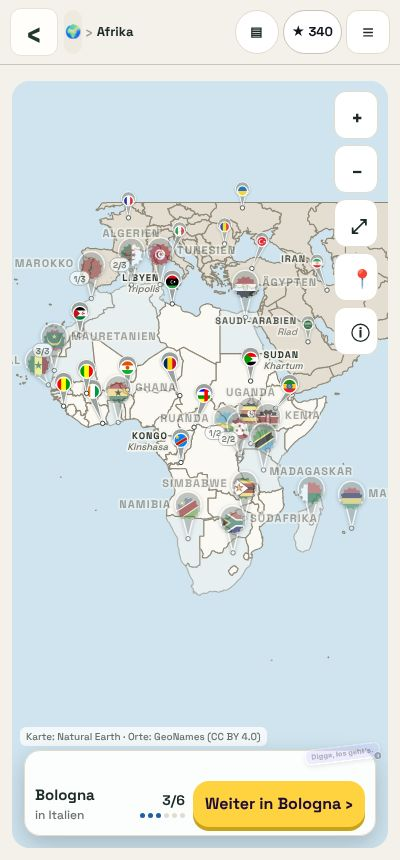
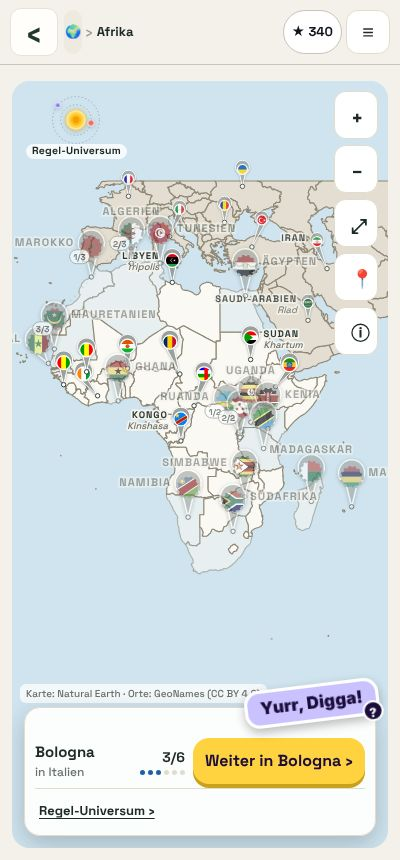
Reisekarte: Regel-Universum schwebt in der Karte (kleine Sonne mit zwei Bahnen), Textlink daneben, Link auch im Tafel-Rückfall
- Fest am Kartenrahmen (zoomt/schiebt nicht mit), auf Welt, Kontinent und Land; die Ecke (oben links, unten rechts,
  unten links, unter den Zoom-Knöpfen) wird je Ebene so gewählt, dass weder Pins/Schilder/Haltestellen der Route noch
  Zoom-Knöpfe, Quellenzeile, Legende oder „Gerade dran“ verdeckt werden. Trefferfläche ≥ 44 px, aria „Zum Regel-Universum“.
- Planeten kreisen sehr langsam; prefers-reduced-motion schaltet das ab. Hell und dunkel.
- Textlink „Regel-Universum ›“: Rechner rechte Spalte unter „Mein Schuljahr“, Handy in der Startkarte neben „Mein Schuljahr“,
  Tafel-Rückfall unter „Mein Schuljahr“.
- Test: drei Ebenen bei 400 × 860 und 1280 × 800 ohne Überdeckung, fest beim Verschieben, Ziel #/regeln/1, reduzierte Bewegung.

Claude-Session: https://claude.ai/code/session_01RWRKSArQNYwC5Aun9rPxAd

diff --git a/lernen.js b/lernen.js
@@ -1841,6 +1841,7 @@ function lernAbflugtafel(d, { n, et, nWdh, wdhRest = 0, wdhFertig = false, ort =
     band, // KJ 2 S2: Fortschrittslinie gehört zu „Gerade dran“ – vor der Zusatz-Karte
     lernZpKarte(d), // KJ §0.4: Zusatz · eingeplant unter „Gerade dran“
     lernSjKarte(d), // KJ §0.5: Mein Schuljahr
+    el('a', { class: 'lr-textlink lr-ru-link', href: `#/regeln/${kind.id}` }, 'Regel-Universum ›'), // auch im Rückfall ohne Karte erreichbar
     // KJ 2 M2: keine Mini-Linien GYM · RS · IB mehr auf der Abflugtafel (widersprachen „Mein Schuljahr“); sie bleiben unter „Meine Route 5–10“ bzw. im Linienplan
     el('div', { class: 'lr-tafelchips' }, el('a', { href: `#/reisepass/${kind.id}` }, `◎ ${d.konto?.stempel ?? 0} Stempel`), el('span', {}, 'Abflug, wann es dir passt')),
     lernKnobelDesTages(d),
@@ -2131,9 +2132,20 @@ function lernReisekarte(d, karte, start) {
   const legende = el('div', { class: 'rk-legende', hidden: true, role: 'note' }, el('b', {}, 'Was die Zeichen bedeuten'),
     ...[['✈', 'gerade dran', 'dran'], ['2', 'Platz im Plan', 'plan'], ['✓', 'geschafft', 'gesch'], ['★', 'golden', 'gold'], ['↻', 'wieder offen – nachbessern', 'wieder'], ['🔒', 'wartet', 'wartet'], ['+', 'Zusatz', 'zusatz']]
       .map(([z0, w, c]) => el('span', { class: 'rk-leg-zeile' }, el('i', { class: 'rk-leg-z rk-leg-' + c, 'aria-hidden': 'true' }, z0), ' ' + w)));
+  // Regel-Universum schwebt in der Karte (Wunsch des Nutzers): kleine Sonne mit zwei Bahnen, fest am Kartenrahmen (zoomt/schiebt nicht mit),
+  // auf allen Ebenen; die Ecke wird je Ebene so gewählt, dass weder Pins/Haltestellen der Route noch Bedienelemente verdeckt werden.
+  const ruZiel = `#/regeln/${kind.id}`;
+  const universum = el('a', { class: 'rk-universum' + (lernWenigBewegung() ? ' still' : ''), href: ruZiel, 'aria-label': 'Zum Regel-Universum', title: 'Regel-Universum' });
+  { const n0 = 'http://www.w3.org/2000/svg'; const q = (tag, a = {}, ...k) => { const e = document.createElementNS(n0, tag); for (const [x, v] of Object.entries(a)) e.setAttribute(x, v); e.append(...k); return e; };
+    universum.append(q('svg', { viewBox: '-30 -30 60 60', width: 54, height: 54, 'aria-hidden': 'true', class: 'rk-uni-bild' },
+      q('circle', { r: 17, class: 'rk-uni-bahn' }), q('circle', { r: 26, class: 'rk-uni-bahn' }),
+      q('circle', { r: 13.5, class: 'rk-uni-schein' }), q('circle', { r: 11, fill: '#FFE68C' }), q('circle', { r: 8.5, fill: '#FFD23F' }), q('circle', { r: 6, fill: '#FFB81F' }), q('circle', { r: 3.5, fill: '#F59E00' }),
+      q('g', { class: 'rk-uni-b1' }, q('circle', { cx: 17, cy: 0, r: 3.4, class: 'rk-uni-p1' })),
+      q('g', { class: 'rk-uni-b2' }, q('circle', { cx: -18.4, cy: -18.4, r: 2.8, class: 'rk-uni-p2' }))),
+    el('span', { class: 'rk-uni-wort' }, 'Regel-Universum')); }
   const zuMir = () => { const f = nbFlug || dranFlug; if (!f) return; z.kont = f.kontinent_id; geheLand(lernRkSchl(f)); }; // NB: „Zu mir“ springt zur offenen Stadt
   const quelle = el('p', { class: 'rk-quelle' }, 'Karte: Natural Earth · Orte: GeoNames (CC BY 4.0)' + (z.ebene === 'welt' ? ' · Stationen: COMNAP' : ''));
-  const kartenTeil = el('div', { class: 'rk-karte' }, rahmen, zoomKnoepfe, legende, quelle);
+  const kartenTeil = el('div', { class: 'rk-karte' }, rahmen, universum, zoomKnoepfe, legende, quelle);
   // S1/S2: eine Kopfzeile im App-Kopf (wie LW-3b): ‹ · Meine Reise · Pfad · ★ · ≡ – die Karte füllt den Rest des Fensters
   const menue = () => { const dlg = wurzel.closest('.lr-mit-menue')?.querySelector('dialog.lr-blatt'); if (dlg && !dlg.open) dlg.showModal(); };
   const schmal = () => innerWidth <= 760;
@@ -2187,7 +2199,7 @@ function lernReisekarte(d, karte, start) {
     const knopf = !start.ziel ? el('p', { class: 'rk-start rk-start-zu' }, el('span', {}, el('b', {}, '🔒 ' + start.text), el('small', {}, 'Frag Mama oder Papa nach dem Plan'))) : el('a', { class: 'rk-start', href: start.ziel }, el('span', {}, el('b', {}, text + ' ›'), st && !start.testDran && !start.wdh ? el('small', {}, `Stadt ${st.nr} · ${st.titel || ''}`) : start.wdh ? el('small', {}, 'Zuerst ein paar Bordkarten von früher') : null));
     const anr = anredeHolen();
     const karteEl = el('div', { class: 'rk-schwebe-karte' + (kompakt ? ' kompakt' : '') + (anr ? ' lr-jw-ecke-traeger' : '') }, zeile, start.ansage ? el('p', { class: 'lr-dock-ansage rk-ansage' }, start.ansage) : null, knopf,
-      start.wdh ? null : lernExtraLink(start.ws, kind.id), kompakt ? sjZeile() : null, anr); // Bonus: „Noch 3 Extra-Bordkarten?“ wie auf der Tafel
+      start.wdh ? null : lernExtraLink(start.ws, kind.id), kompakt ? el('div', { class: 'rk-sj-reihe' }, sjZeile(), el('a', { class: 'rk-ru-link', href: `#/regeln/${kind.id}` }, 'Regel-Universum ›')) : null, anr); // Bonus: „Noch 3 Extra-Bordkarten?“ wie auf der Tafel
     return [lernNachbuchungHinweis(d), nb ? lernNbKarte(d, { kompakt }) : null, ex, karteEl, // Geschenk für die Landungen: auch auf der Karte (Abflugtafel abgeschaltet)
       lernZpKarte(d, { kompakt })]; // KJ §0.4: Zusatz · eingeplant unter „Gerade dran“
   };
@@ -2210,6 +2222,7 @@ function lernReisekarte(d, karte, start) {
     setzeVb([cx - w / 2, cy - hNutz * k / 2, w, h]);
   }
   function passend() {
+    uniSchl = ''; // Regel-Universum: nach dem Einpassen die Ecke neu wählen
     const D = z.daten; if (!D) return;
     if (z.ebene === 'welt') {
       // S5: Handy startet als Ausschnitt um den aktuellen Kontinent
@@ -2323,7 +2336,7 @@ function lernReisekarte(d, karte, start) {
         pin.addEventListener('click', () => { if (!gezogen) route('stationen', String(kind.id)); }); ebenen.oben.append(pin); }
       // hier bist du
       if (dranStadt) ebenen.oben.append(gr(lernKarteProj(D.proj, dranStadt.laenge, dranStadt.breite), s('circle', { r: 10, class: 'rk-puls' }), s('circle', { r: 5, class: 'rk-hier' })));
-      return;
+      uniPlatz(); return;
     }
     // Kontinent und Land: Flaggen-Pins (Kopf = Flagge, Spitze = Hauptstadt bzw. Hauptort des Landesteils)
     // S2 (Prüfung RK-App 2, Abschnitt 2): Vorrang beim Beschriften, vier Lagen je Schild, kein Platz → Schild weglassen (Pin bleibt),
@@ -2440,8 +2453,29 @@ function lernReisekarte(d, karte, start) {
       lernErsetze(hinweis, f?.gesperrt ? el('p', { class: 'rk-grund rk-grund-karte' }, '🔒 ' + grundVon(f)) : null,
         nx ? el('button', { type: 'button', class: 'rk-weiter-hinweis', onclick: () => { z.kont = nx.kontinent_id; geheLand(lernRkSchl(nx)); } }, `Teil ${nx.teil} geht weiter in ${nx.land} ›`) : null);
     } else lernErsetze(hinweis);
+    uniPlatz();
   }
   const hinweis = el('div', { class: 'rk-hinweis' }); kartenTeil.append(hinweis);
+  // Ecke für das Regel-Universum: oben links, unten rechts, unten links, rechts unter den Zoom-Knöpfen – die mit der kleinsten Überdeckung
+  // (Pins und Schilder der Route, Haltestellen, Kontinent-Namen, Zoom-Knöpfe, Quellenzeile, Legende, „Gerade dran“). Beim Verschieben bleibt sie stehen.
+  let uniSchl = '';
+  function uniPlatz() {
+    const kb = kartenTeil.getBoundingClientRect(); if (!kb.width) return;
+    const sw = handy() ? Math.round(unten()) : 0;
+    const schl = [z.ebene, z.kont, z.land, Math.round(kb.width), Math.round(kb.height), sw].join('|'); if (schl === uniSchl) return; uniSchl = schl;
+    const zr = zoomKnoepfe.getBoundingClientRect(); const zu = Math.round(zr.bottom - kb.top + 10);
+    const kand = [{ left: '10px', top: '10px' }, { right: '10px', bottom: `${sw + 10}px` }, { left: '10px', bottom: `${sw + 30}px` }, { right: '6px', top: `${zu}px` }];
+    const hind = [...ebenen.oben.querySelectorAll('.rk-pin-flug .rk-kopfring, .rk-pin-flug .rk-pland, .rk-pin-flug .rk-phs, .rk-pin-flug .rk-spitze, .rk-st-g, .rk-kname, .rk-kzahl, .rk-station, .rk-hier, .rk-hs-ring')]
+      .map((e) => e.getBoundingClientRect()).filter((r) => r.width || r.height);
+    for (const e0 of [zoomKnoepfe, quelle, legende.hidden ? null : legende, ...schwebe.children, hinweis, ...(blatt.hidden ? [] : [blatt])]) { if (!e0) continue; const r = e0.getBoundingClientRect(); if (r.width) hind.push(r); }
+    const ueber = (a, b) => Math.max(0, Math.min(a.right, b.right) - Math.max(a.left, b.left) + 4) * Math.max(0, Math.min(a.bottom, b.bottom) - Math.max(a.top, b.top) + 4);
+    let best = null, bestU = Infinity;
+    for (const k0 of kand) { Object.assign(universum.style, { left: 'auto', right: 'auto', top: 'auto', bottom: 'auto' }, k0); const r = universum.getBoundingClientRect();
+      const raus = r.top < kb.top || r.bottom > kb.bottom || r.left < kb.left || r.right > kb.right;
+      const u = raus ? 1e9 : hind.reduce((s0, h) => s0 + ueber(r, h), 0); if (u < bestU) { bestU = u; best = k0; } if (!u) break; }
+    Object.assign(universum.style, { left: 'auto', right: 'auto', top: 'auto', bottom: 'auto' }, best);
+    universum.dataset.ecke = kand.indexOf(best);
+  }
   function lernRkPin({ g, f, label, off = [0, 0], angedeutet = false, fremd = false }, k, gr) {
     const zst = lernRkZustand(f, nst); const iso = g.iso;
     const marke = zst === 'gold' ? '★' : zst === 'gesch' ? '✓' : zst === 'kann' ? '◉' : (zst === 'plan' || zst === 'wartet') && f.plan_platz ? String(f.plan_platz) : zst === 'zusatz' ? '+' : zst === 'dran' ? '✈' : null;
@@ -2539,7 +2573,8 @@ function lernReisekarte(d, karte, start) {
   // Rechner: rechte Spalte – Gerade dran + Startknopf, angetipptes Land, „Meine Route · Länder“ bzw. „Städte in …“
   function zeichneSeite(blattInhalt = null) {
     if (!rechner()) { lernErsetze(seite); return; }
-    const teile = [el('section', { class: 'rk-seite-karte' }, ...geradeDran()), lernSjKarte(d)]; // KJ §0.5: Mein Schuljahr in der rechten Spalte
+    const teile = [el('section', { class: 'rk-seite-karte' }, ...geradeDran()), lernSjKarte(d), // KJ §0.5: Mein Schuljahr in der rechten Spalte
+      el('a', { class: 'lr-textlink rk-ru-link', href: ruZiel }, 'Regel-Universum ›')]; // auffindbar auch ohne das schwebende Objekt
     if (blattInhalt) teile.push(el('section', { class: 'rk-seite-karte rk-seite-blatt' }, ...blattInhalt));
     if (z.ebene === 'kontinent') { const r = reihe(z.kont);
       if (r.length) teile.push(el('section', { class: 'rk-seite-karte' }, el('h4', {}, 'MEINE ROUTE · LÄNDER'), ...r.map((f, i) => el('button', { type: 'button', class: 'rk-lzeile', onclick: () => waehle(lernRkSchl(f)) },
@@ -2563,7 +2598,7 @@ function lernReisekarte(d, karte, start) {
     const von = z.vb ? z.vb.slice() : null; passend(); const nach = z.vb.slice();
     if (!von || lernWenigBewegung()) { zeichneOben(); return; }
     const t0 = performance.now(); const lauf = (t) => { const p = Math.min(1, (t - t0) / 450); const e = 1 - Math.pow(1 - p, 3);
-      setzeVb(von.map((v, i) => v + (nach[i] - v) * e)); if (p < 1) requestAnimationFrame(lauf); else zeichneOben(); };
+      setzeVb(von.map((v, i) => v + (nach[i] - v) * e)); if (p < 1) requestAnimationFrame(lauf); else { uniSchl = ''; zeichneOben(); } };
     requestAnimationFrame(lauf);
   }
   // ---------- Verschieben (Finger/Maus), Zoomen (zwei Finger, Mausrad, + / −) ----------

diff --git a/style.css b/style.css
@@ -6030,3 +6030,23 @@ body.rk-kopf-oben:has(#tabs[hidden]) { padding-bottom: 0; }
 .lr-schritt-wartet { opacity: .6; pointer-events: none; cursor: progress; }
 .lr-ziel-offen :is(.rk-start, .rk-dran, .lr-flug-jetzt, .lr-einsteigen-knopf) { opacity: .55; pointer-events: none; cursor: progress; }
 .lr-ziel-offen :is(.rk-start b, .rk-start small, .rk-dran-text, .rk-dran-stand, .lr-flug-jetzt .lr-flug-ort, .lr-flug-jetzt .lr-flug-status small, .lr-einsteigen-knopf span, .lr-dock-ansage) { visibility: hidden; }
+/* Regel-Universum schwebt in der Reisekarte: kleine Sonne mit zwei Bahnen, fest am Kartenrahmen (Ecke per JS), dezent kreisend */
+.rk-universum { position: absolute; left: 10px; top: 10px; z-index: 4; display: flex; flex-direction: column; align-items: center; gap: 0; min-width: 64px; min-height: 64px; padding: 2px 4px 4px; text-decoration: none; color: var(--tx); border-radius: 16px; -webkit-tap-highlight-color: transparent; }
+.rk-uni-bild { display: block; overflow: visible; filter: drop-shadow(0 1px 2px #0003); }
+.rk-uni-bahn { fill: none; stroke: color-mix(in srgb, var(--tx) 35%, transparent); stroke-width: .8; stroke-dasharray: 1.6 2.4; }
+.rk-uni-schein { fill: #FFD23F; opacity: .28; }
+.rk-uni-p1 { fill: #F26B5B; stroke: #fff; stroke-width: .9; } .rk-uni-p2 { fill: #8B7CF6; stroke: #fff; stroke-width: .9; }
+.rk-uni-b1 { transform-origin: 0 0; animation: rk-uni-dreh 48s linear infinite; }
+.rk-uni-b2 { transform-origin: 0 0; animation: rk-uni-dreh 90s linear infinite reverse; }
+@keyframes rk-uni-dreh { to { transform: rotate(360deg); } }
+.rk-uni-wort { margin-top: -3px; font-size: 10.5px; font-weight: 800; letter-spacing: .02em; line-height: 1.2; white-space: nowrap; padding: 1px 6px; border-radius: 8px; background: color-mix(in srgb, var(--karteF) 80%, transparent); }
+.rk-universum:hover .rk-uni-wort, .rk-universum:focus-visible .rk-uni-wort { background: #FFD23F; color: #11161D; }
+.rk-universum:focus-visible { outline: 3px solid #FFD23F; outline-offset: 0; }
+.rk-universum.still .rk-uni-b1, .rk-universum.still .rk-uni-b2 { animation: none; }
+@media (prefers-reduced-motion: reduce) { .rk-uni-b1, .rk-uni-b2 { animation: none; } }
+.rk-sj-reihe { grid-column: 1 / -1; order: 2; display: flex; align-items: center; gap: 6px; }
+.rk-sj-reihe .rk-sj-zeile { flex: 1; min-width: 0; }
+.rk-ru-link { flex: none; display: inline-flex; align-items: center; min-height: 44px; padding: 0 4px; font-size: 13px; font-weight: 700; color: var(--tx); text-decoration: underline; text-underline-offset: 3px; }
+.rk-seite .rk-ru-link { padding: 0 6px; }
+.rk-sj-reihe { border-top: 1px solid var(--linieF); margin: -4px 0 -6px; }
+.rk-sj-reihe .rk-sj-zeile { border-top: 0; margin: 0; }
